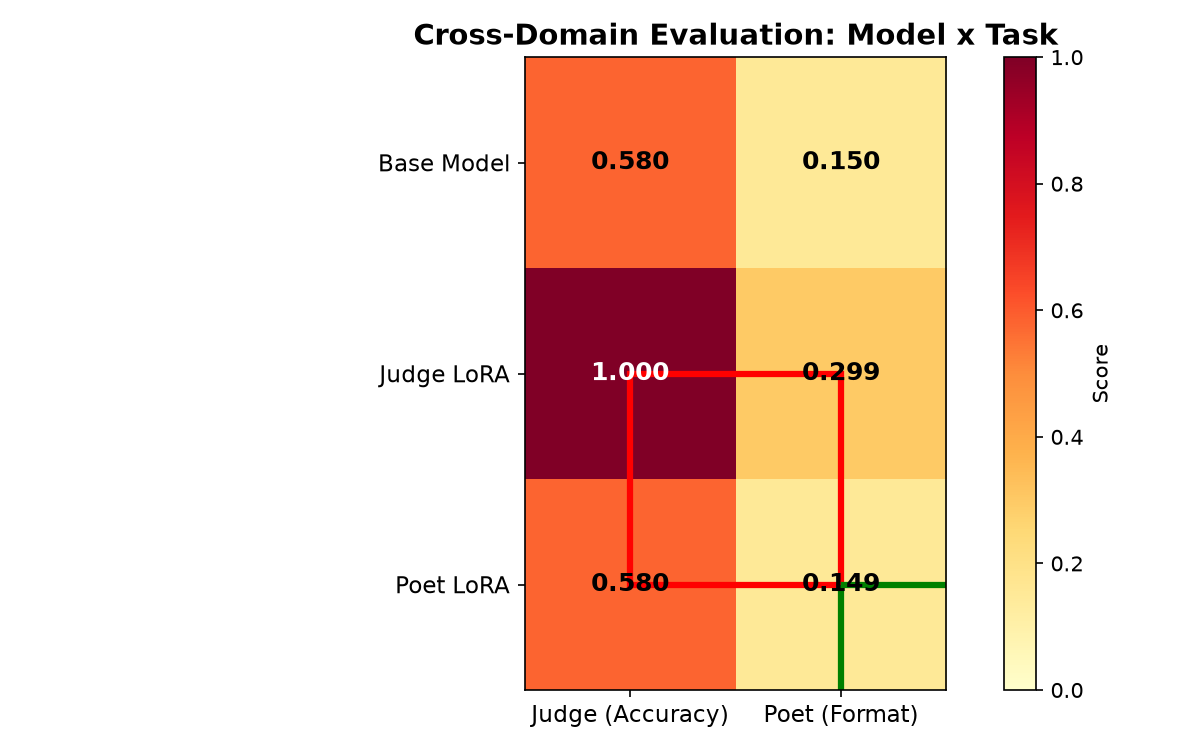
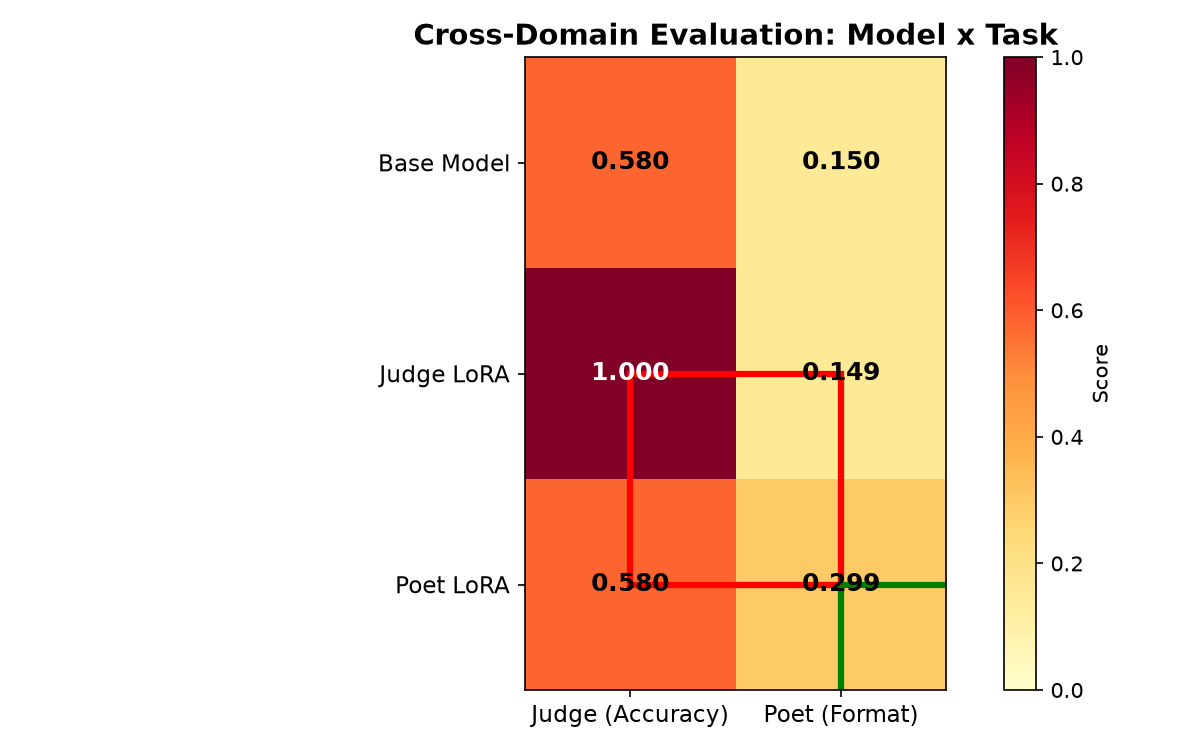
fix: cross domain heatmap plot results

Changed region(s): [[0.5858, 0.3373, 0.8017, 0.92]]

diff --git a/eval/plot_results.py b/eval/plot_results.py
@@ -191,11 +191,11 @@ def plot_cross_domain_heatmap(output_dir: str) -> None:
         data.get("poet_judge", {}).get("accuracy", 0),
     ]
 
-    # Poet task scores (form compliance), row order: base, poet, judge
+    # Poet task scores (form compliance), row order: base, judge, poet
     poet_scores = [
         data.get("base_poet", {}).get("avg_form_compliance", 0),
-        data.get("poet_poet", {}).get("avg_form_compliance", 0),
         data.get("judge_poet", {}).get("avg_form_compliance", 0),
+        data.get("poet_poet", {}).get("avg_form_compliance", 0),
     ]
 
     matrix = np.array([judge_scores, poet_scores]).T  # 3x2